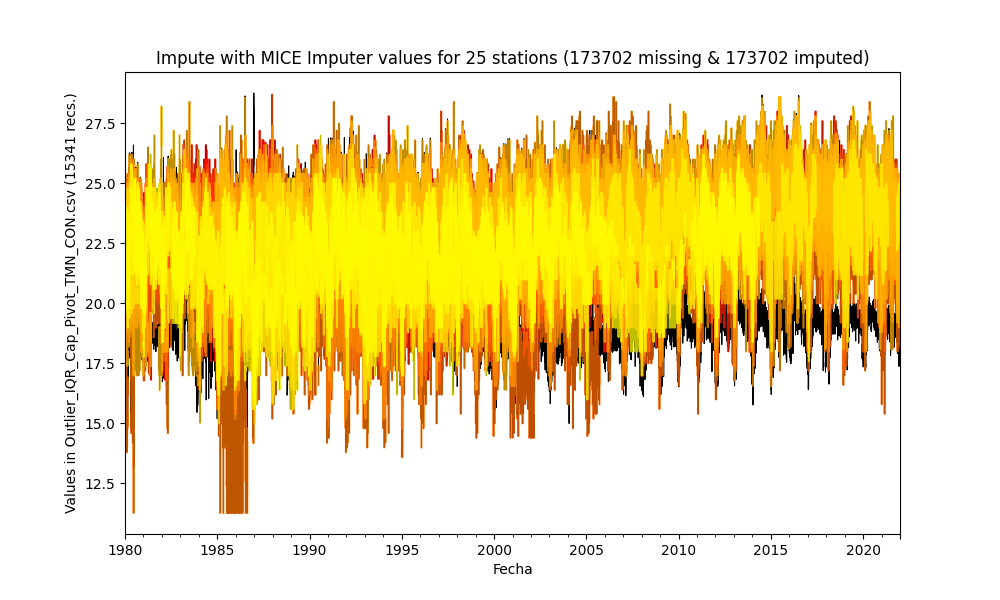
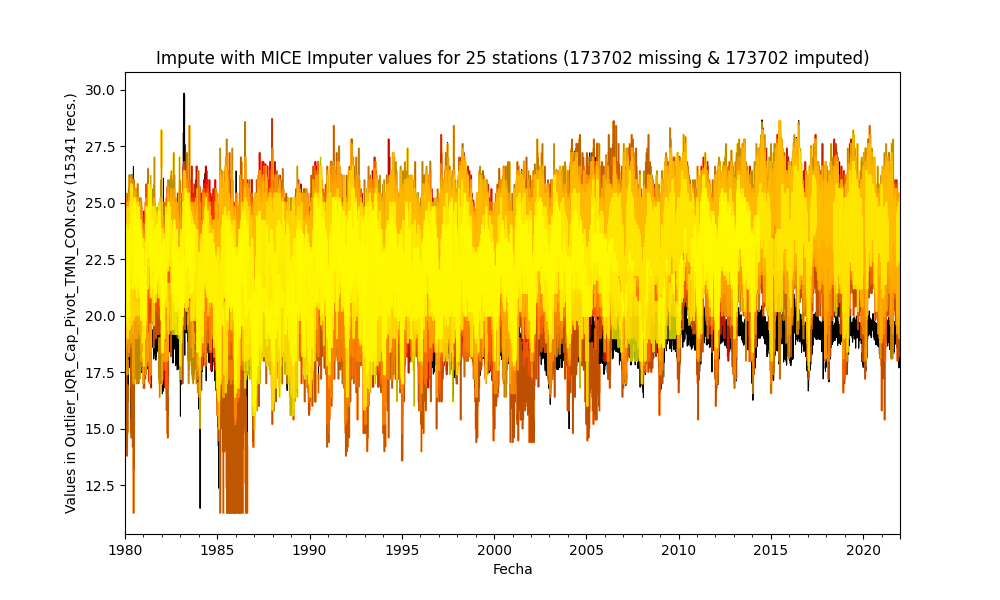
General update.

diff --git a/.src/Impute.py b/.src/Impute.py
@@ -211,7 +211,8 @@ df_impute = pd.DataFrame(df_impute, columns=column_headers, index=index_list) # 
 df_isnull = pd.DataFrame(df_impute.isnull().sum(), columns=['Nulls'])
 total_imputed = total_nulls - df_isnull['Nulls'].sum()
 print_log('\n\n### Method 7 - Impute missing values with Natural Neigborns - KNN = %d Imputer from Scikit Learn' % n_neighbors +
-          '\nAccording to this technique, the missing values are imputed using the natural neighbors values and the serie has been completed filled.')
+          '\nAccording to this technique, the missing values are imputed using the natural neighbors values and the serie has been completed filled.' +
+          '\nImputer = %s' % imputer)
 impute_file = 'Impute_KNN_' + pivot_table_name
 plot_impute(df, df_impute, 'KNN Imputer', impute_file)
 print_log('General statistics table - Imputed file', center_div=True)
@@ -226,7 +227,8 @@ df_impute = pd.DataFrame(df_impute, columns=column_headers, index=index_list) # 
 df_isnull = pd.DataFrame(df_impute.isnull().sum(), columns=['Nulls'])
 total_imputed = total_nulls - df_isnull['Nulls'].sum()
 print_log('\n\n### Method 8 - Impute missing values with Multivariate Imputation by Chained Equation - MICE from Scikit Learn' +
-          '\nAccording to this technique, the missing values are imputed using MICE values and the serie has been completed filled.')
+          '\nAccording to this technique, the missing values are imputed using MICE values and the serie has been completed filled.' +
+          '\nImputer = %s' % imputer)
 impute_file = 'Impute_MICE_' + pivot_table_name
 plot_impute(df, df_impute, 'MICE Imputer', impute_file)
 print_log('General statistics table - Imputed file', center_div=True)

diff --git a/.datasets/IDEAM_Impute/Impute_Outlier_IQR_Cap_Pivot_TMN_CON.csv.md b/.datasets/IDEAM_Impute/Impute_Outlier_IQR_Cap_Pivot_TMN_CON.csv.md
@@ -1,7 +1,7 @@
 ## Impute missing values in time series through statistical methods
 
 * Processed file: [D:/R.LTWB/.datasets/IDEAM_Outlier/Outlier_IQR_Cap_Pivot_TMN_CON.csv](../IDEAM_EDA/Outlier_IQR_Cap_Pivot_TMN_CON.csv)
-* Execution date: 2022-11-11 10:32:25.347910
+* Execution date: 2022-11-11 10:36:05.278483
 * Python version: 3.10.5 (tags/v3.10.5:f377153, Jun  6 2022, 16:14:13) [MSC v.1929 64 bit (AMD64)]
 * Python path: ['D:\\R.LTWB\\.src', 'D:\\R.LTWB', 'D:\\R.GISPython.wiki', 'D:\\R.GISPython', 'D:\\R.HydroTools.wiki']
 * matplotlib version: 3.6.0
@@ -376,6 +376,7 @@ General statistics table - Imputed file
 
 ### Method 7 - Impute missing values with Natural Neigborns - KNN = 5 Imputer from Scikit Learn
 According to this technique, the missing values are imputed using the natural neighbors values and the serie has been completed filled.
+Imputer = KNNImputer()
 
 ![R.LTWB](Impute_KNN_Outlier_IQR_Cap_Pivot_TMN_CON.csv.png)
 
@@ -424,6 +425,7 @@ General statistics table - Imputed file
 
 ### Method 8 - Impute missing values with Multivariate Imputation by Chained Equation - MICE from Scikit Learn
 According to this technique, the missing values are imputed using MICE values and the serie has been completed filled.
+Imputer = IterativeImputer(estimator=BayesianRidge(), min_value=0, n_nearest_features=5)
 
 ![R.LTWB](Impute_MICE_Outlier_IQR_Cap_Pivot_TMN_CON.csv.png)
 
@@ -440,31 +442,31 @@ General statistics table - Imputed file
 
 |          |   count |    mean |      std |     min |     25% |     50% |     75% |     max |
 |---------:|--------:|--------:|---------:|--------:|--------:|--------:|--------:|--------:|
-| 15015020 |   15341 | 22.3315 | 1.43109  | 16.4    | 21.4688 | 22.4686 | 23.2    | 26.8    |
-| 15065040 |   15341 | 23.0688 | 1.45576  | 16.828  | 22.2335 | 23.1512 | 24.0059 | 27.8    |
-| 23215060 |   15341 | 23.9598 | 0.635164 | 19.4576 | 23.6098 | 24      | 24.3671 | 26.8    |
-| 25025002 |   15341 | 22.904  | 1.37857  | 17.4722 | 22.102  | 23      | 23.8    | 27.2    |
-| 25025090 |   15341 | 23.518  | 1.31855  | 18      | 22.8    | 23.5457 | 24.3268 | 28      |
-| 25025250 |   15341 | 22.4668 | 1.51311  | 17      | 21.4    | 22.4452 | 23.6    | 27.1    |
-| 25025300 |   15341 | 23.0185 | 1.60301  | 16.6    | 22.2    | 23.2    | 24.0709 | 27.8    |
-| 25025330 |   15341 | 22.901  | 1.41443  | 16.8526 | 22.2    | 23      | 23.8    | 28.7057 |
-| 28015030 |   15341 | 23.0664 | 1.05816  | 17.4296 | 22.4141 | 23.0957 | 23.7654 | 27.4605 |
-| 28015070 |   15341 | 22.3097 | 1.24592  | 17.2    | 21.5    | 22.4    | 23.0114 | 26.2    |
-| 28025020 |   15341 | 20.5324 | 1.6464   | 14.4    | 19.6    | 20.8    | 21.6059 | 26      |
-| 28025040 |   15341 | 18.6771 | 1.2004   | 11.271  | 18.1952 | 18.8    | 19.3275 | 26.077  |
-| 28025070 |   15341 | 23.7695 | 1.50945  | 18.2    | 22.8    | 23.8    | 24.8    | 28.6    |
-| 28025080 |   15341 | 21.8325 | 1.43718  | 15.2    | 21.1943 | 22.0005 | 22.8    | 27      |
-| 28025090 |   15341 | 22.3244 | 1.54319  | 16.5704 | 21.4835 | 22.4856 | 23.4    | 27.4    |
-| 28025502 |   15341 | 23.9148 | 1.17491  | 19.1    | 23.2    | 24      | 24.654  | 28.6    |
-| 28035010 |   15341 | 23.3808 | 1.31933  | 18.101  | 22.6792 | 23.4425 | 24.2    | 28.5546 |
-| 28035020 |   15341 | 22.7128 | 1.74574  | 15.8035 | 21.8    | 22.8425 | 23.8    | 28.7659 |
-| 28035040 |   15341 | 24.2561 | 1.16795  | 19.9343 | 23.6    | 24.2    | 25      | 28.6    |
-| 28035070 |   15341 | 23.4215 | 1.33919  | 18.0308 | 22.701  | 23.491  | 24.253  | 28.6825 |
-| 28045020 |   15341 | 21.6256 | 1.19276  | 15      | 20.893  | 21.7872 | 22.4433 | 26.4    |
-| 28045040 |   15341 | 23.1187 | 0.668635 | 18.6935 | 22.7225 | 23.1682 | 23.565  | 26.6    |
-| 29065010 |   15341 | 21.3686 | 0.754243 | 15.7072 | 20.9429 | 21.4148 | 21.8312 | 25.2    |
-| 29065020 |   15341 | 22.3213 | 1.74488  | 15.6    | 21.4    | 22.6    | 23.6    | 27.4    |
-| 29065030 |   15341 | 21.9429 | 1.43684  | 16      | 21      | 22.2    | 23      | 27      |
+| 15015020 |   15341 | 22.4556 | 1.46154  | 16.4    | 21.6    | 22.6    | 23.4    | 26.8    |
+| 15065040 |   15341 | 23.0693 | 1.30024  | 16.828  | 22.4    | 23.165  | 23.9049 | 27.8    |
+| 23215060 |   15341 | 23.9564 | 0.595147 | 19.4576 | 23.6183 | 23.9922 | 24.3308 | 26.8    |
+| 25025002 |   15341 | 22.9343 | 1.39678  | 17.4722 | 22.1007 | 23      | 23.9465 | 27.2    |
+| 25025090 |   15341 | 23.4691 | 1.31336  | 18      | 22.785  | 23.408  | 24.2    | 28      |
+| 25025250 |   15341 | 22.483  | 1.52137  | 17      | 21.4    | 22.5017 | 23.6    | 27.1    |
+| 25025300 |   15341 | 22.9943 | 1.61945  | 16.6    | 22.1633 | 23.2    | 24.1    | 27.8    |
+| 25025330 |   15341 | 22.8164 | 1.43072  | 16.8526 | 22.0406 | 22.9458 | 23.8    | 28.7057 |
+| 28015030 |   15341 | 23.0433 | 1.04901  | 18.282  | 22.4223 | 23.1276 | 23.7446 | 26.8299 |
+| 28015070 |   15341 | 22.328  | 1.23861  | 17.2    | 21.5933 | 22.4    | 23.1183 | 26.2    |
+| 28025020 |   15341 | 20.4971 | 1.66373  | 14.4    | 19.6    | 20.6362 | 21.6    | 26      |
+| 28025040 |   15341 | 18.7628 | 1.15666  | 11.271  | 18.3105 | 18.9053 | 19.3725 | 26.077  |
+| 28025070 |   15341 | 23.7694 | 1.50313  | 18.2    | 22.8    | 23.8    | 24.8    | 28.6    |
+| 28025080 |   15341 | 21.8771 | 1.42963  | 15.2    | 21.2186 | 22.0893 | 22.8    | 27      |
+| 28025090 |   15341 | 22.3765 | 1.57916  | 15.939  | 21.4999 | 22.6    | 23.4    | 27.4    |
+| 28025502 |   15341 | 23.8995 | 1.19533  | 19.1    | 23.1    | 23.9    | 24.7    | 28.6    |
+| 28035010 |   15341 | 23.3434 | 1.31514  | 18.101  | 22.6    | 23.4    | 24.2    | 28.5546 |
+| 28035020 |   15341 | 22.7774 | 1.64748  | 16.4    | 22      | 22.9683 | 23.8    | 28.6    |
+| 28035040 |   15341 | 24.2444 | 1.17471  | 19.9343 | 23.4    | 24.2    | 25      | 28.6    |
+| 28035070 |   15341 | 23.3503 | 1.329    | 18.0079 | 22.6179 | 23.4089 | 24.1985 | 28.6572 |
+| 28045020 |   15341 | 22.1639 | 1.25362  | 15      | 21.4195 | 22.2928 | 23.0375 | 26.4    |
+| 28045040 |   15341 | 22.9621 | 0.720443 | 18.6935 | 22.5103 | 23      | 23.4429 | 26.6    |
+| 29065010 |   15341 | 21.3141 | 0.672523 | 15.7072 | 20.9469 | 21.3588 | 21.7188 | 25.2    |
+| 29065020 |   15341 | 22.3155 | 1.82647  | 11.4769 | 21.208  | 22.6    | 23.6    | 29.8471 |
+| 29065030 |   15341 | 21.9707 | 1.44853  | 16      | 21      | 22.2    | 23      | 27      |
 
 </div>
 
